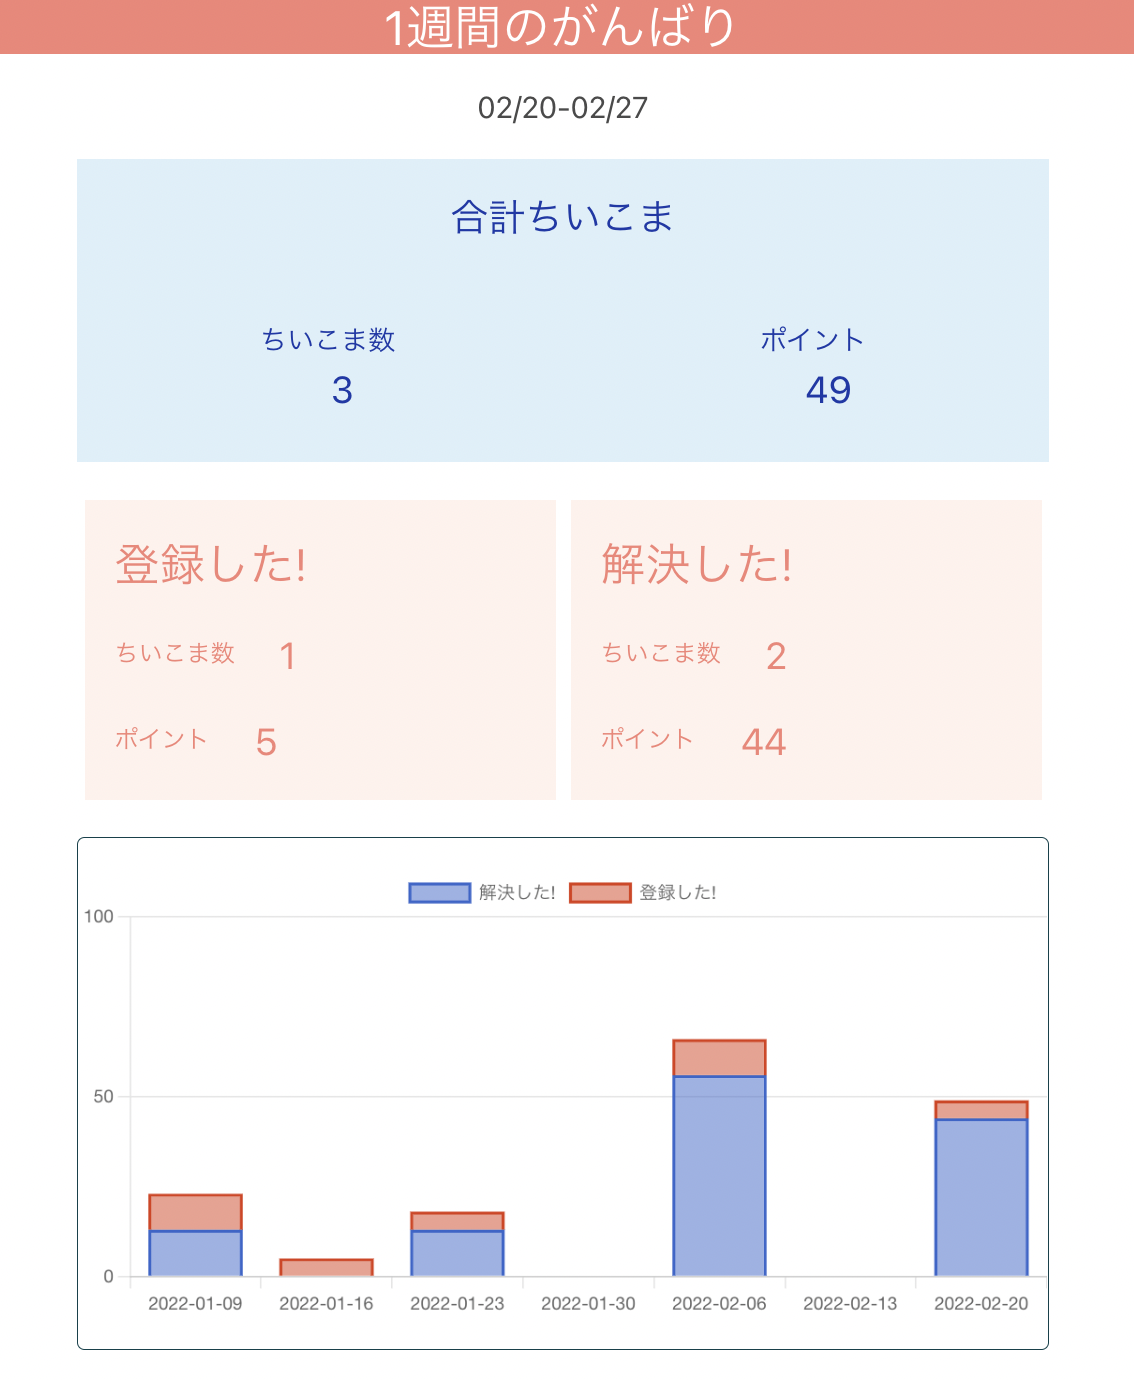
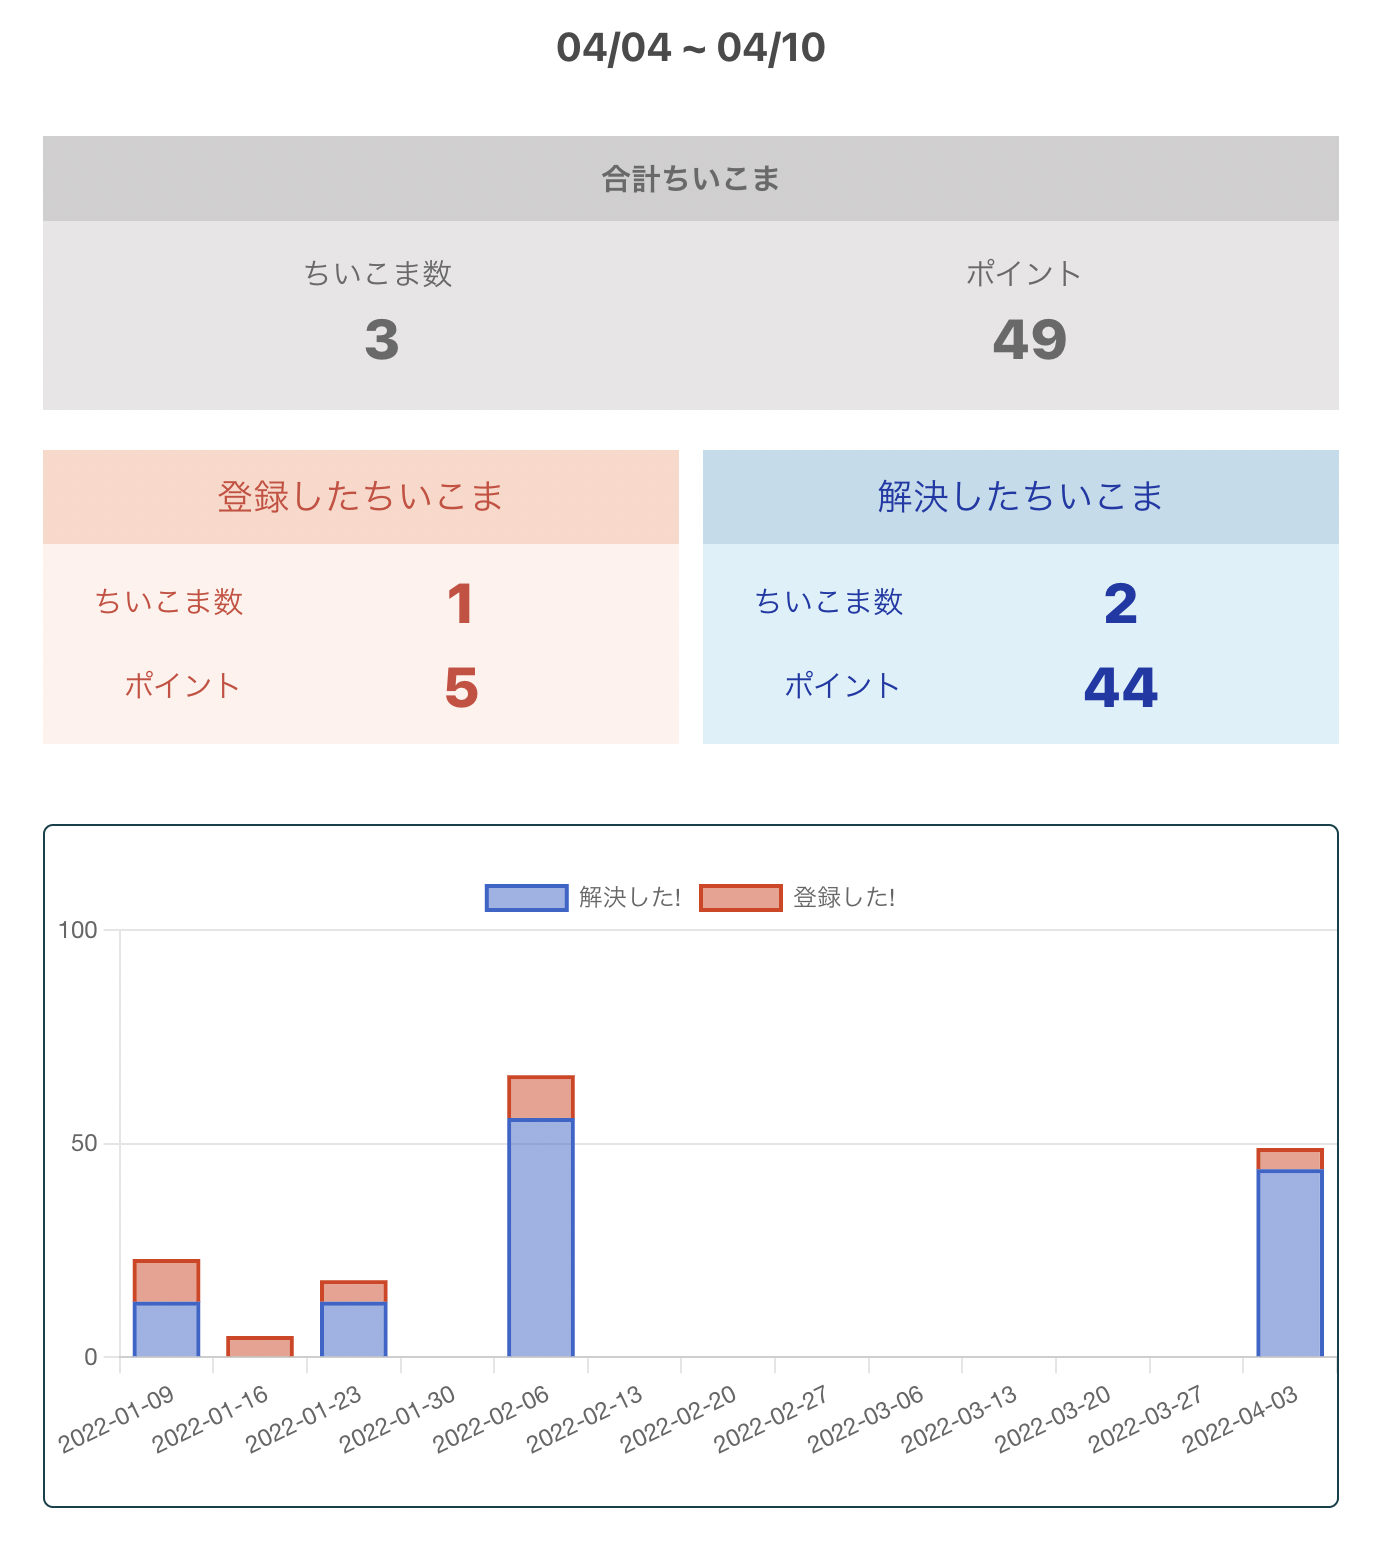
cssファイルの先頭にアンスコをつけた

diff --git a/app/assets/stylesheets/_top.scss b/app/assets/stylesheets/_top.scss
@@ -1,5 +1,3 @@
-@import "bulma";
-
 .top-page {
   background-color: #fef2ec;
 }
@@ -49,8 +47,19 @@
 }
 
 .main-items {
-  padding-bottom: 60px;
+  padding-bottom: 30px;
   padding-top: 60px;
+  margin: 0 auto;
+  width: 640px;
+  max-width: 100%;
+
+  @include mobile {
+    width: 100%;
+  }
+}
+
+.sub-items {
+  padding-bottom: 60px;
   margin: 0 auto;
   width: 640px;
   max-width: 100%;
@@ -90,7 +99,7 @@
 .service-header {
   font-weight: bold;
   font-size: x-large;
-  margin-top: 30px;
+  margin-top: 40px;
 
   @include mobile {
     font-size: 22px;

diff --git a/app/assets/stylesheets/_shared.scss b/app/assets/stylesheets/_shared.scss
@@ -41,7 +41,7 @@
 }
 
 .title {
-  color: #d0493b;
+  color: #ec7b6f;
   font-size: 22px;
   font-weight: normal;
 }

diff --git a/app/assets/config/manifest.js b/app/assets/config/manifest.js
@@ -1,2 +1,2 @@
+//= link application.css
 //= link_tree ../images
-//= link_directory ../stylesheets .css

diff --git a/app/assets/stylesheets/_devise.scss b/app/assets/stylesheets/_devise.scss
@@ -1,5 +1,3 @@
-@import "bulma";
-
 .account-form {
   margin: 30px auto;
   width: 480px;
